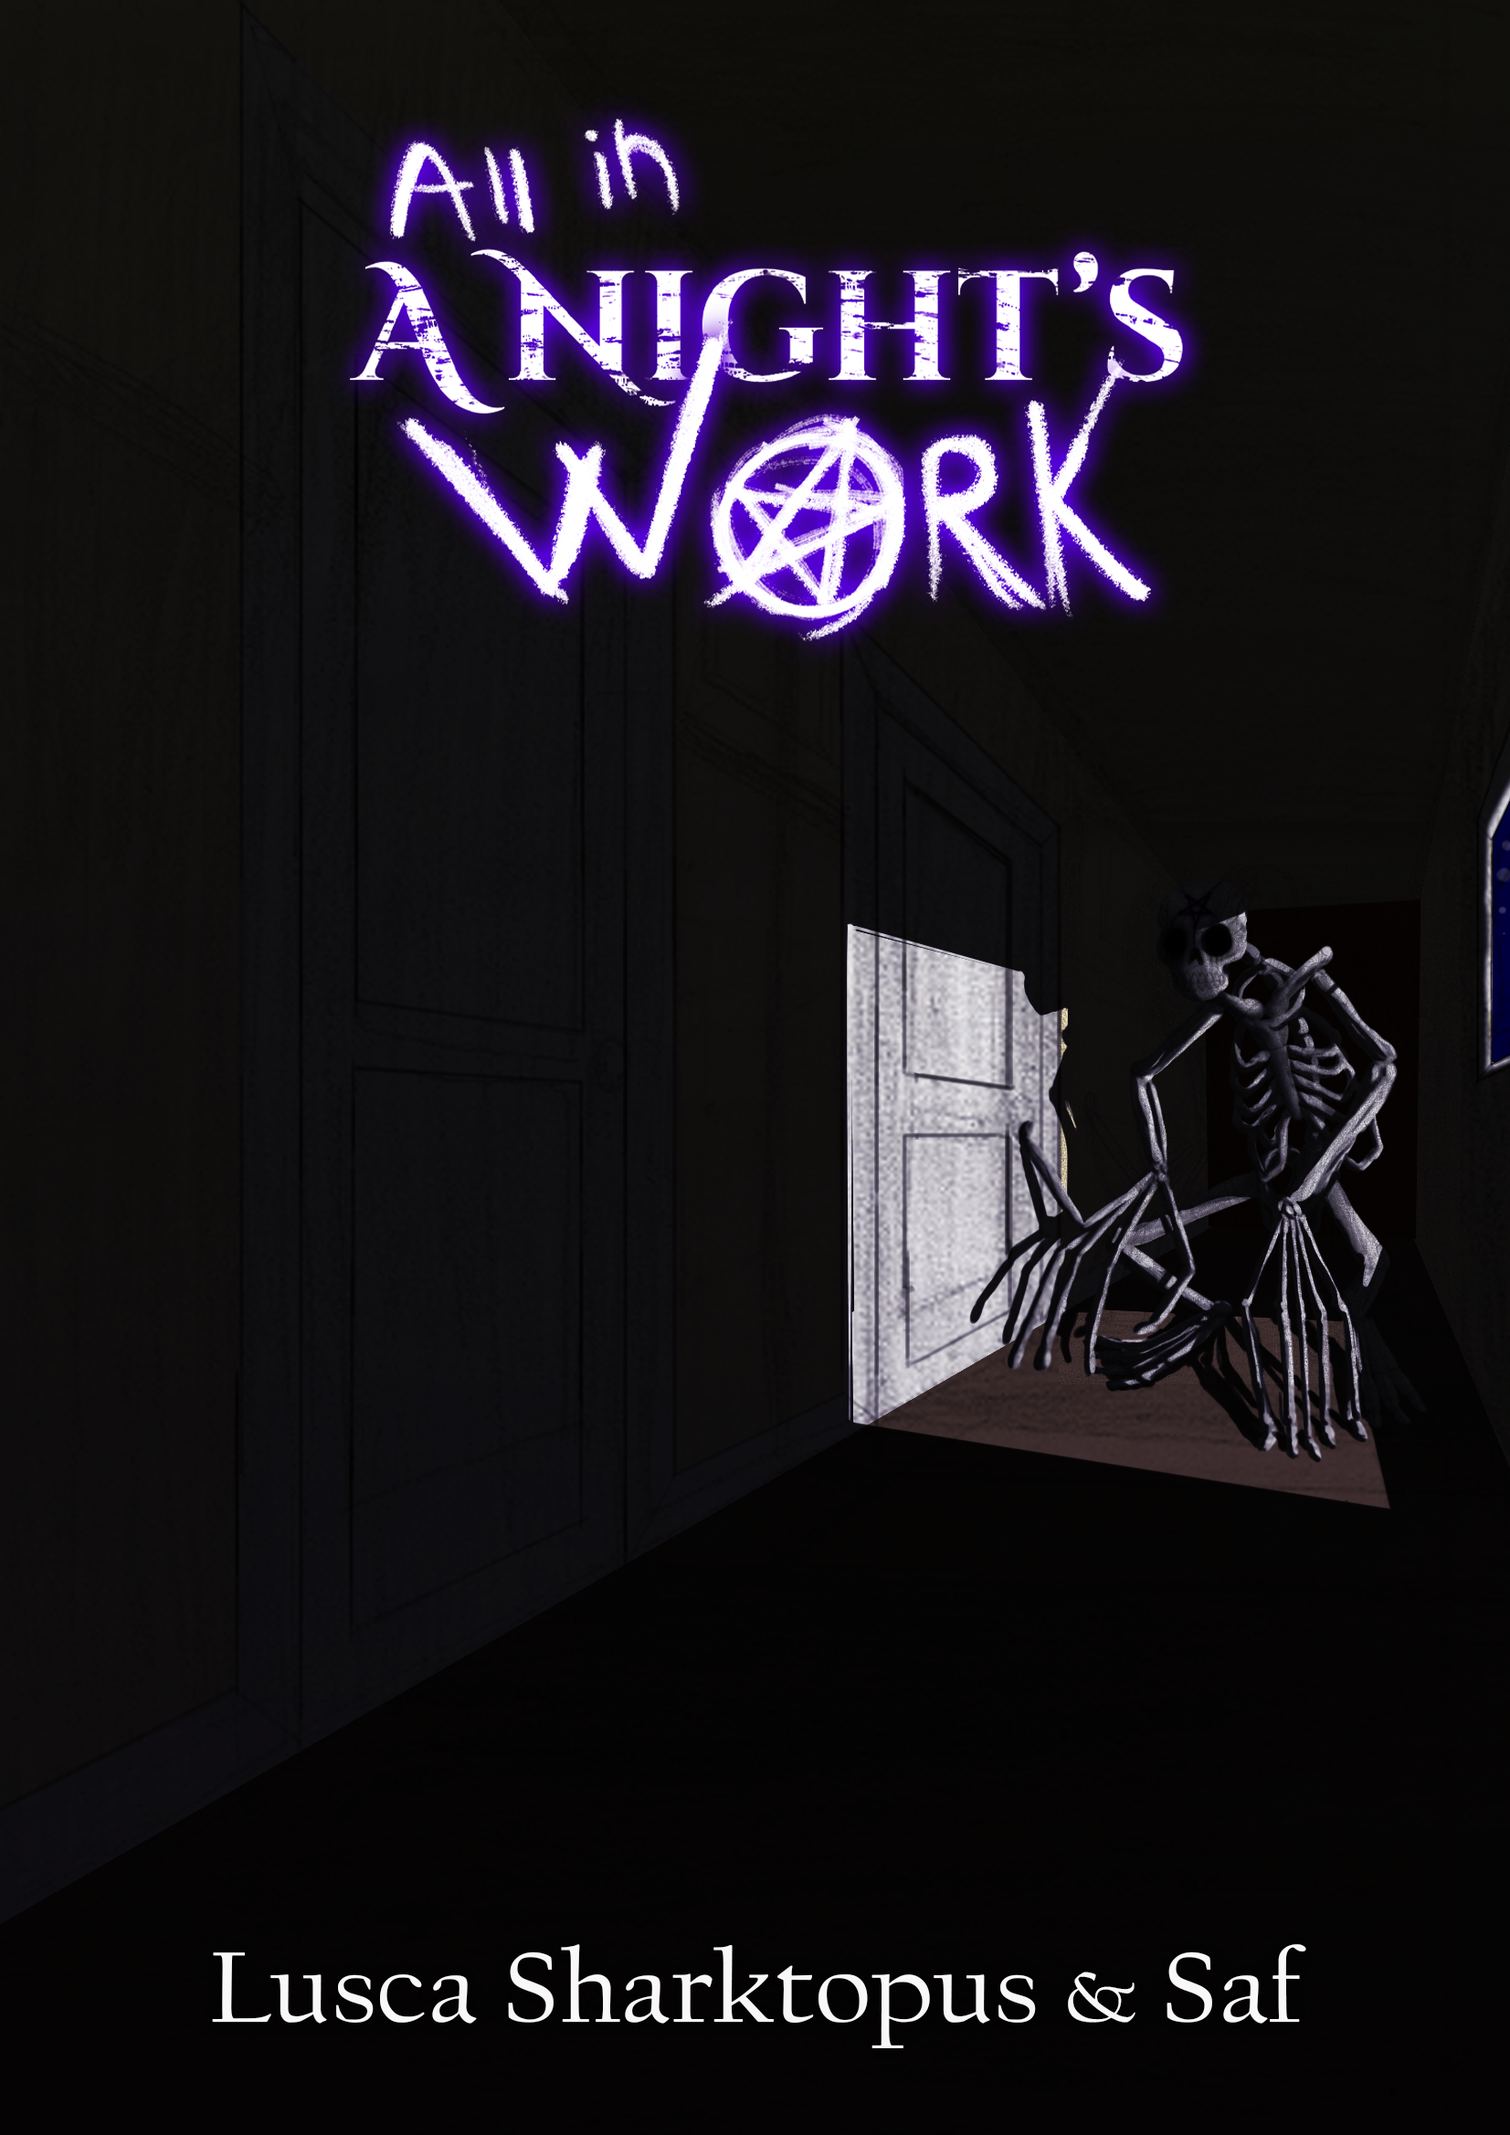
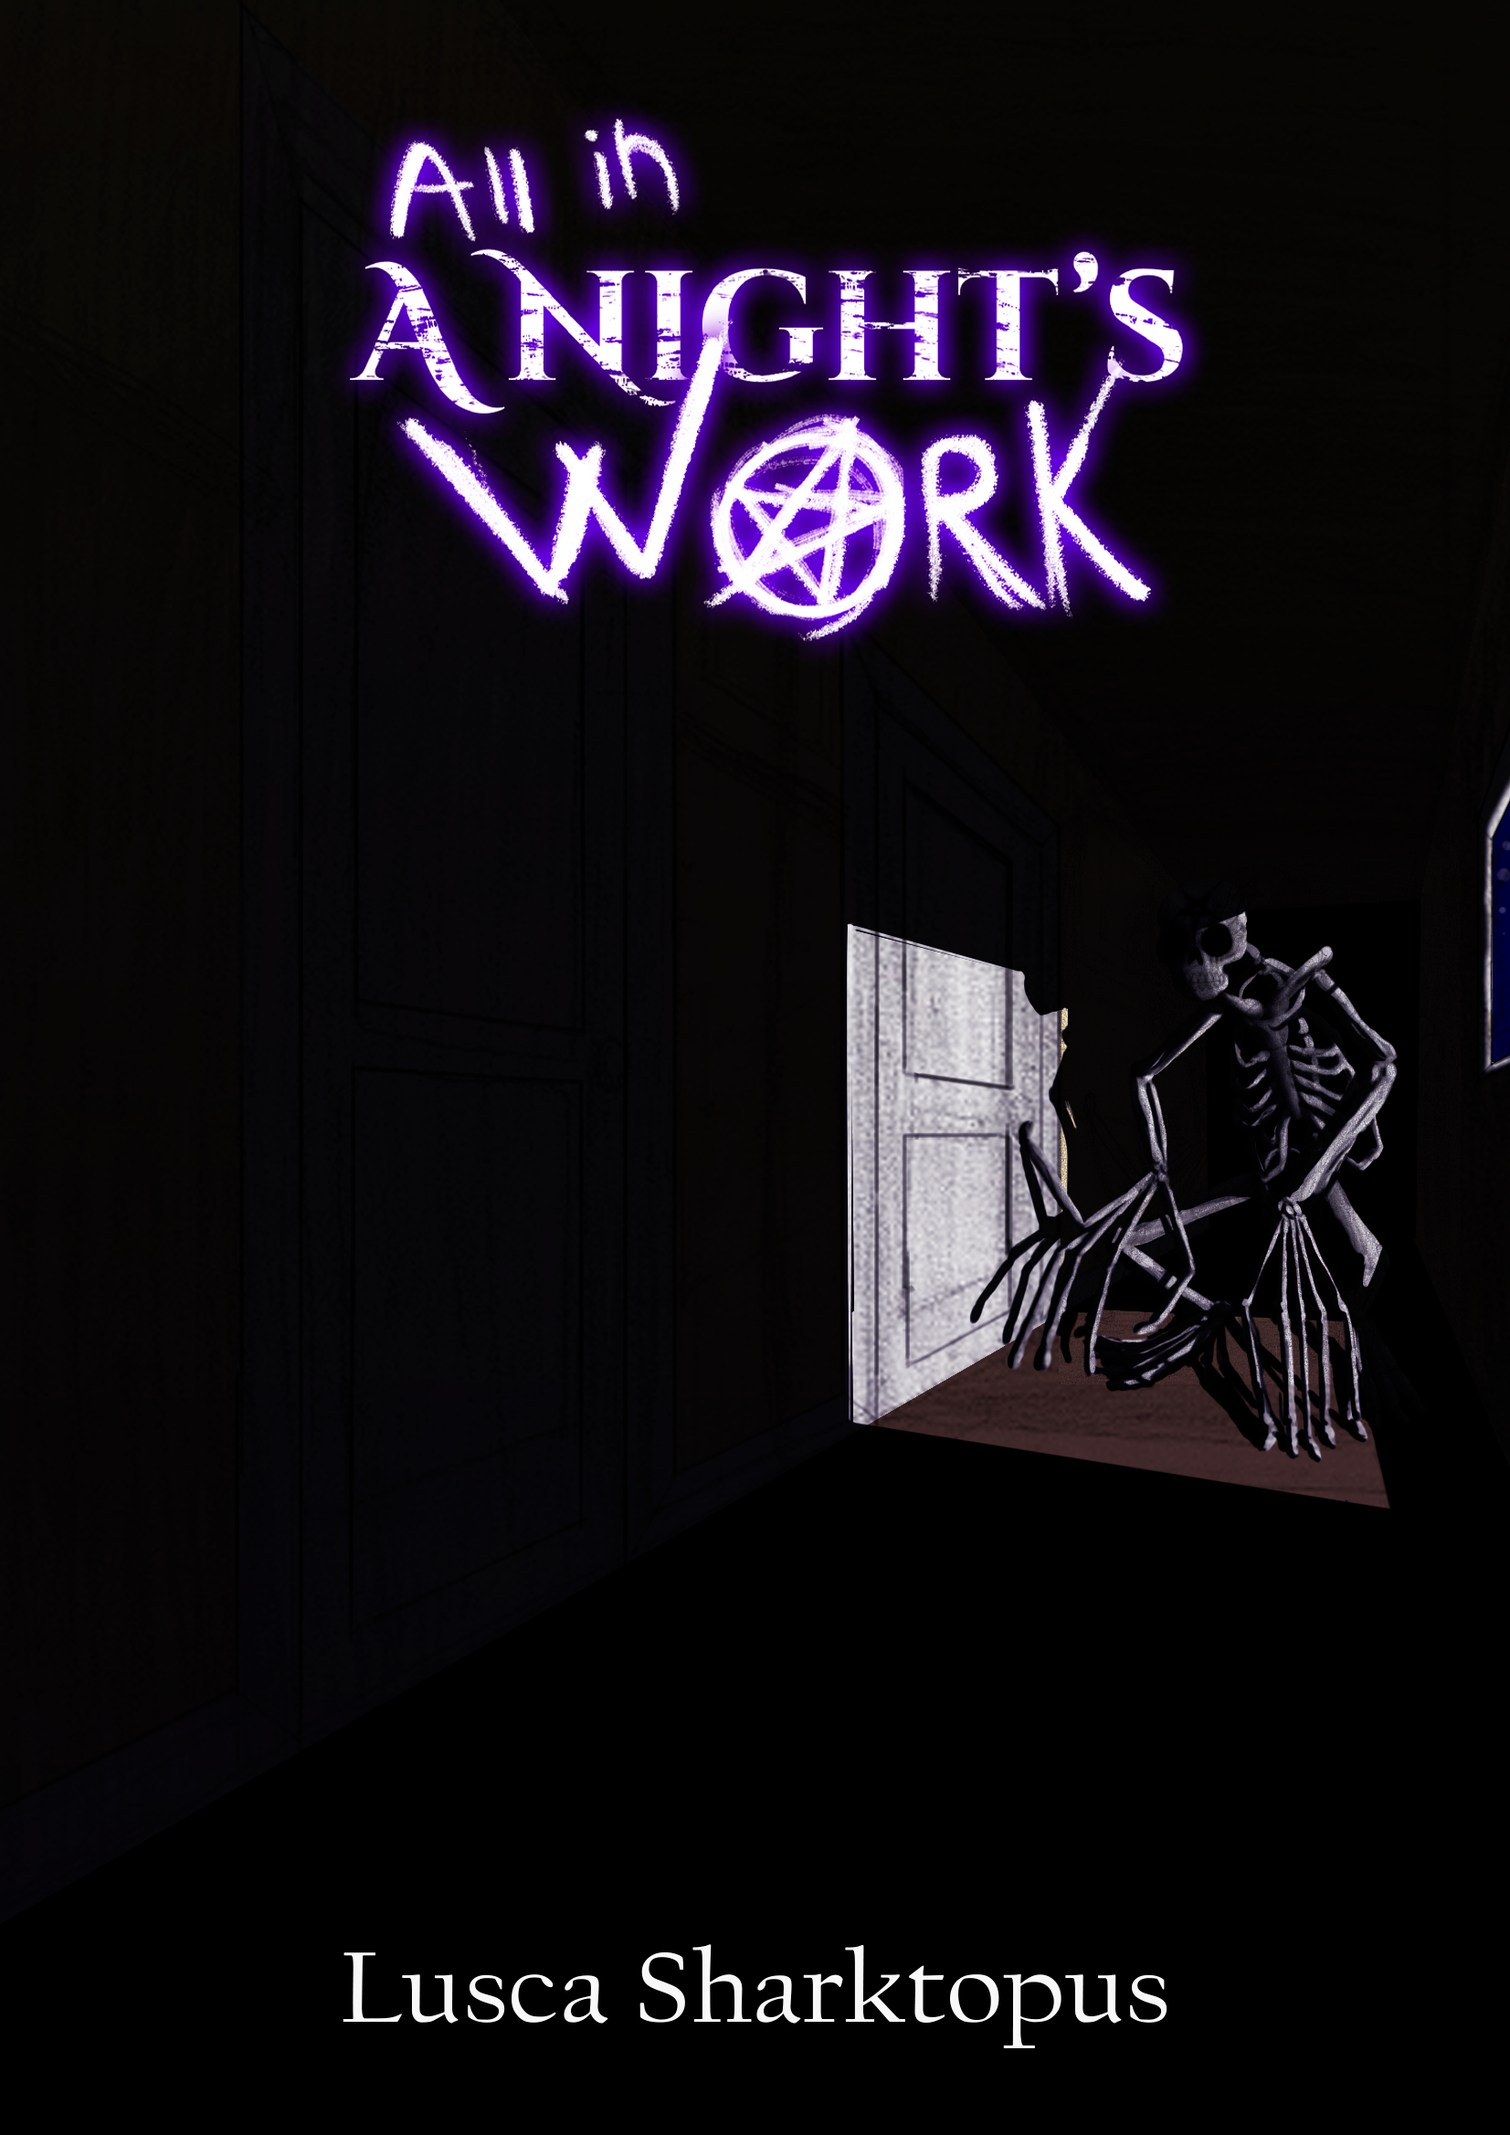
T17x: Ossos do Ofício volta a ser a 4ª no lançamento (Beira de Estrada, 5ª) e capas de Ossos sem "& Saf"
- order.release: Ossos 5 → 4, Beira de Estrada 4 → 5 (desfaz o item 4 da T17o; as duas são rascunho, o site publicado não muda)
- capas de Ossos (PT e EN) só com "Lusca Sharktopus", até a coautoria com o Saf ser confirmada; as com "& Saf" ficam em guardados/capas-ossos-com-saf/
- fotos de referência refeitas; testes ajustados à nova ordem
- docs/BACKLOG.md: linha T17x (inclui o que foi feito no site no ar, commit 690e839 na main)

Claude-Session: https://claude.ai/code/session_01CyzgedwNSXWfVwyTQknEPQ

Changed region(s): [[0.1851, 0.9055, 0.8639, 0.9679], [0.1234, 0.9055, 0.1543, 0.9367]]

diff --git a/tests/paginas.test.ts b/tests/paginas.test.ts
@@ -677,26 +677,26 @@ describe("T17c/T17l: o bloco de ordem no fim de TODO capítulo e de toda página
     expect(ped.chrono.next).toEqual({ href: "/pt/works/roadside/", texto: "Ler Beira de Estrada", externo: false });
     expect(ped.release.next?.texto).toBe("Assistir Luz & Sangue");
     // Beira de Estrada (quadrinho: "estou lendo"), nos capítulos e na página da obra: cronológica Pederneira ← → (O Pêndulo e Cat-Crow-Thing,
-    // sem arte, pulados) ninguém; lançamento (4, desde a T17o: o autor vai lançar a Beira antes de Ossos): Luz & Sangue (3) ← → Ossos do
-    // Ofício (5; desde a T17n tem capítulo em português, e é para ele que leva)
+    // sem arte, pulados) ninguém; lançamento (5, desde 30/10 — T17x: Ossos do Ofício volta a ser a 4ª, no lugar da Beira): Ossos do Ofício (4;
+    // desde a T17n tem capítulo em português, e é para ele que leva) ← → ninguém
     for (const url of ["/pt/works/roadside/01/", "/pt/works/roadside/02/", "/pt/works/roadside/"]) {
       const bloco = blocoDe(dir, url);
       expect(bloco, url).toContain("estou lendo em ordem");
       const l = lados(bloco);
       expect(l.chrono.prev, url).toEqual({ href: "/pt/works/firestriker/01/", texto: "Ler Pederneira", externo: false });
       expect(l.chrono.next, url).toBeNull();
-      expect(l.release.prev, url).toEqual({ href: "/pt/works/light-and-blood/", texto: "Assistir Luz & Sangue", externo: false });
-      expect(l.release.next, url).toEqual({ href: "/pt/works/all-in-a-nights-work/01/", texto: "Ler Ossos do Ofício", externo: false });
-      expect(bloco, url).toContain('<a class="so-side next" href="/pt/works/all-in-a-nights-work/01/">');
+      expect(l.release.prev, url).toEqual({ href: "/pt/works/all-in-a-nights-work/01/", texto: "Ler Ossos do Ofício", externo: false });
+      expect(l.release.next, url).toBeNull();
+      expect(bloco, url).toContain('<a class="so-side prev" href="/pt/works/all-in-a-nights-work/01/">');
       expect(bloco, url).not.toContain("hreflang");
     }
-    expect(lados(blocoDe(dir, "/en/works/roadside/01/")).release.next).toEqual({ href: "/en/works/all-in-a-nights-work/01/", texto: "Read All in a Night&#39;s Work", externo: false });
+    expect(lados(blocoDe(dir, "/en/works/roadside/01/")).release.prev).toEqual({ href: "/en/works/all-in-a-nights-work/01/", texto: "Read All in a Night&#39;s Work", externo: false });
     expect(blocoDe(dir, "/en/works/roadside/01/")).not.toContain("hreflang");
-    // T17o: lançamento na prévia = Alô? 1 · Pederneira 2 · Luz & Sangue 3 · Beira de Estrada 4 · Ossos do Ofício 5 (O Pêndulo 6 e Cat-Crow-Thing 7, sem arte, pulados)
-    expect(lados(blocoDe(dir, "/pt/works/light-and-blood/01/")).release.next?.href).toBe("/pt/works/roadside/");
+    // T17x: lançamento na prévia = Alô? 1 · Pederneira 2 · Luz & Sangue 3 · Ossos do Ofício 4 · Beira de Estrada 5 (O Pêndulo 6 e Cat-Crow-Thing 7, sem arte, pulados)
+    expect(lados(blocoDe(dir, "/pt/works/light-and-blood/01/")).release.next?.href).toBe("/pt/works/all-in-a-nights-work/01/");
     const ossosNoLancamento = lados(blocoDe(dir, "/pt/works/all-in-a-nights-work/01/")).release;
-    expect(ossosNoLancamento.prev?.href).toBe("/pt/works/roadside/");
-    expect(ossosNoLancamento.next).toBeNull();
+    expect(ossosNoLancamento.prev?.href).toBe("/pt/works/light-and-blood/");
+    expect(ossosNoLancamento.next?.href).toBe("/pt/works/roadside/");
     // O Pêndulo (vídeo: "estou assistindo") e Cat-Crow-Thing (jogo: "estou jogando") ainda TÊM o bloco; antes deles, a Beira de Estrada na
     // cronológica e (T17o) Ossos do Ofício no lançamento
     const pen = blocoDe(dir, "/pt/works/the-pendulum/01/");
@@ -706,7 +706,7 @@ describe("T17c/T17l: o bloco de ordem no fim de TODO capítulo e de toda página
       expect(cct).toContain(lang === "pt" ? "estou jogando em ordem" : "I’m playing in");
       for (const bloco of [cct, blocoDe(dir, `/${lang}/works/the-pendulum/01/`)]) {
         for (const o of ["chrono", "release"] as const) {
-          expect(lados(bloco)[o].prev?.href).toBe(o === "chrono" ? `/${lang}/works/roadside/` : `/${lang}/works/all-in-a-nights-work/01/`);
+          expect(lados(bloco)[o].prev?.href).toBe(`/${lang}/works/roadside/`);   // T17x: a Beira é a última também no lançamento
           expect(lados(bloco)[o].next).toBeNull();
         }
       }

diff --git a/tests/ordem.test.ts b/tests/ordem.test.ts
@@ -470,14 +470,14 @@ describe("T17l: quem não tem arte para a caixa é pulado; obra só com capítul
   test("conteúdo de verdade (prévia): Ossos do Ofício nas páginas em português leva ao capítulo em PORTUGUÊS (T17n; até a T17m, ao inglês)", () => {
     const r = ler(Object.fromEntries(realContent()), true);
     const pt = r.dados.pt;
-    // Luz & Sangue: na cronológica Ossos do Ofício (4) vem antes; no lançamento (T17o: Beira de Estrada 4, Ossos 5), vem depois da Beira de Estrada
+    // Luz & Sangue: na cronológica Ossos do Ofício (4) vem antes; no lançamento (T17x, 30/10: Ossos 4, Beira de Estrada 5), Ossos vem logo depois dela
     const obra = pt.obras.find((o) => o.data._origem.slug === "light-and-blood")!;
     const beira = pt.obras.find((o) => o.data._origem.slug === "roadside")!;
     const outros = (o: (typeof pt.obras)[number]) => [{ lang: "en" as const, capitulos: r.dados.en.capitulosDe(r.dados.en.obras.find((x) => x.data._origem.slug === o.data._origem.slug)!) }];
-    expect(blocoDaOrdem(obra, "pt", pt.universo, pt.capitulosDe, true, outros).listas.release.proximo?.slug).toBe("roadside");
+    expect(blocoDaOrdem(obra, "pt", pt.universo, pt.capitulosDe, true, outros).listas.release.proximo?.slug).toBe("all-in-a-nights-work");
     // com ou sem a informação dos outros idiomas, o mesmo destino: o capítulo em português, sem hreflang (a regra do "outro idioma" não vale mais para Ossos)
     for (const [b, c] of [obra, beira].flatMap((o) => [blocoDaOrdem(o, "pt", pt.universo, pt.capitulosDe, true, outros), blocoDaOrdem(o, "pt", pt.universo, pt.capitulosDe, true)].map((x) => [x, o] as const))) {
-      for (const ossos of c === obra ? [b.listas.chrono.anterior] : [b.listas.release.proximo]) {
+      for (const ossos of c === obra ? [b.listas.chrono.anterior] : [b.listas.release.anterior]) {
         expect(ossos?.slug).toBe("all-in-a-nights-work");
         expect(ossos?.rotulo).toBe("Ler Ossos do Ofício");
         expect(ossos?.destino).toEqual({ tipo: "link", href: "/pt/works/all-in-a-nights-work/01/", externo: false, idioma: null });

diff --git a/docs/BACKLOG.md b/docs/BACKLOG.md
@@ -53,6 +53,7 @@ Uma **thread por tarefa, em sequência**: a próxima só começa depois que a at
 | T17u | Pedidos do autor (28/10, 22:06–22:22): (1) **carta de Ossos com texto real** ("gostaria que a carta tivesse texto real no lugar do texto em imagem"), fonte "Cristina" = **Pristina** (typo do autor), "Deixe esta fonte por agora, ela é um placeholder"; "o ponto é acidental" ("called. Sarah" → "called Sarah"); (2) "em todas as páginas de história [...] a mesma linha horizontal presente em Pederneira e Ossos do Ofício abaixo da logo"; (3) "retire as datas de debaixo dos nomes dos capítulos em páginas de capítulos"; (4) "Turn Close Captions on!" sob o título, só em inglês, em Luz & Sangue e O Pêndulo | 2 | Opus | médio | T17t | baixo | feita (28–29/10/2026; sem subagente; só no Astro, exceto o texto da carta, que é conteúdo e vale nos dois) — ver o tópico no CLAUDE.md; provas `tests/cabecalho.test.ts`, `leitor.test.ts`, `paginas.test.ts`, paridade com 0 diferenças; carta comparada lado a lado com a imagem antiga. **Pendências:** licença para web da Pristina (ou outra fonte) **antes de publicar Ossos** — hoje a fonte só vai para a prévia; "Close Captions" (o comum é "Closed Captions"): texto do autor, mantido, apontado a ele. **Ajuste do autor (28/10, 22:40):** "prefiriria que a linha horizontal ficasse acima de nomes de capítulos e outros textos, realmente logo abaixo da logo" → a linha passou para logo abaixo da logo, antes do título, em todo capítulo (inclusive texto); `cabecalhoDoCapituloComoNoPython()` a devolve para depois do título no texto, como no Python. |
 | T17v | Pedido do autor (29/10): "exclua o post do blog sobre a arte de natal dos di vario"; "no lugar, crie uma nova e guarde ela como rascunho até o natal deste ano", com o vídeo novo em formato longo (https://youtu.be/Zgog1aIPsds), "o mesmo texto" e "a arte final centralizada logo abaixo" ("Di Vario Christmas.png", logo "Residence") | 1 | Opus | baixo | T17u | baixo | feita (29/10/2026; sem subagente) — saiu `content/news/2025-12-25-feliz-natal-di-vario/` (o endereço antigo deixa de existir e a conversa `news/2025-12-25-feliz-natal-di-vario` some da página; o site passa de 197 para 195 HTML; a baseline foi refeita); entrou `content/news/2026-12-25-feliz-natal-di-vario/` com `draft: true` (mesmo título, mesmas etiquetas, mesmo texto, mesma miniatura `news/feliz-natal-di-vario.png`), o vídeo novo e a arte em `static/news/Di Vario Christmas.png` (`<figure class="wide">`); o post do Instagram do fim do post antigo NÃO entrou (pergunta ao autor); a logo de Natal "Hello Di Vario Residency 5.png" (diz "Residence") guardada em `static/logos/EN/`. **No dia 25/12/2026: apagar `draft: true` nos dois arquivos.** "2026 seja um grande ano" → "2027" (e "I hope 2026" → "2027"), a pedido do autor (29/10). |
 | T17w | PDF "Ossos do Ofício" de 29/10 ("mais um tiquinho de progresso feito"), aplicado ao capítulo 01 (en.md e pt.md, mesmo texto) | 1 | Opus | médio | T17v | baixo | feita (29/10/2026; sem subagente; skill hc-fidelidade-pdf) — texto revisto do trem (presente em vez de passado na parte do sonho; "finance guy", "sorry…" em 7 pt, a conversa dos animais catemerais no lugar da linha de traços), "Ałe de l’Órdene", os três marcadores do autor entre colchetes com os divisores, "Then and there…" (13 pt) + "…Lying on the floor…", e depois do quadrinho a luta com o Ruinalgam (Pai-Nosso em latim em versalete: ꜱ e ꜰ no lugar dos quadradinhos do PDF) e o começo da cena do orfanato. Mantidas as correções já aprovadas em 15/10 (It’s, "need some rest", I’m/I, "a cross-shaped", "train station"), que o PDF voltou a trazer como antes. Corrigido pelo autor no PDF seguinte (29/10, "corrigido!"): o trecho repetido saiu, "cathemeral", "A precise", "demon’s". Continua como ele escreveu: "didn’t quite knew". |
+| T17x | Pedidos do autor (30/10, 18:47–18:53), **a maior parte no site que está no ar** (`main`, o HTML solto), não no Astro: (1) degradê de Pederneira/Firestriker (texto final que some letra a letra, igual ao do `content/`); (2) cartão **Ossos do Ofício / All in a Night's Work "Em breve"** na home PT e EN, em 4º lugar; (3) versalete real (`<span class="hc">`: o texto copiado sai com letras normais); (4) visual do site novo (fundo em degradê com runas, cabeçalho, folha de papel, cartões, rodapé), com o **cabeçalho funcionando como antes** (Sobre/Histórias/Contato pela mesma página; idioma como link simples); (5) episódio 2 de Luz & Sangue e página de lista de episódios; (6) **sem a caixa de cronologia**. E, no projeto do Astro: **Ossos do Ofício volta a ser a 4ª na ordem de lançamento e Beira de Estrada a 5ª** (desfaz o item (4) da T17o) e as **capas de Ossos sem "& Saf"** (`guardados/capas-ossos-com-saf/` guarda as outras, até a coautoria com o Saf ser confirmada) | 2 | Opus | médio | T17w | médio | feita (30/10/2026) — **site no ar:** commit direto na `main` (`690e839`, pedido explícito do autor; a regra "nada na `main` até a T20" continua valendo para o Astro). Arquivos novos na raiz: `fonts.css` + `fonts/` (as mesmas fontes do site novo, hospedadas; nada vai ao Google), `social/`, `Backgrounds/paper-texture.avif`, `logos/*/Luz e Sangue 6`/`Light & Blood 6` (a logo EN é a mesma imagem da PT, como no site novo), `luz-1/2.html` e `light-1/2.html` (episódios) e `luz.html`/`light.html` (agora a lista de episódios, mesma URL de antes). Nomes de arquivo e URLs de antes, comentários do Disqus e redirects intactos. Os arquivos foram gerados por um script de uso único (fora do repositório) a partir do site novo; o autor segue editando o HTML à mão. Mudanças pequenas junto: link do e-mail do Contato (`mailto:` estava sem endereço) e `</br>` soltos do "Sobre" viraram parágrafos. **Astro:** `order.release` Ossos 5 → 4 e Beira 4 → 5 (publicado igual: as duas são rascunho; na prévia: Alô? 1 · Pederneira 2 · Luz & Sangue 3 · Ossos 4 · Beira 5 · O Pêndulo 6 · Cat-Crow-Thing 7), fotos de referência refeitas. |
 | T18 | Paridade com a baseline + correções | 6 | Opus | alto | T15, T17, T17c, T17f | **alto** | feita (20/10/2026) — [relatório](paridade-T18.md): zero diferenças não explicadas; aguarda a revisão T19 |
 | T19 | Revisão independente da migração | 6 | Opus | muito alto | T18 | **alto** | feita (21/10/2026) — [revisão](revisao-T19.md): **pode virar**, nenhum impedimento; condições C1–C7 para sábado e ressalvas R1–R12 |
 | T19b | Acabamento do autor no site novo (elementos gráficos, detalhes, notícias novas) | 6 | Sonnet (quando precisar) | médio | T19 | baixo | em andamento: os pedidos do PDF de 20/10 (T17b–T17e) são este acabamento |

diff --git a/guardados/capas-ossos-com-saf/LEIA-ME.md b/guardados/capas-ossos-com-saf/LEIA-ME.md
@@ -1,0 +1,8 @@
+# Capas de Ossos do Ofício com "& Saf"
+
+As duas capas desta pasta (PT e EN) são as versões com o crédito "Lusca Sharktopus & Saf".
+Em 30/10/2026 o autor pediu para o site usar, por enquanto, as capas só com "Lusca Sharktopus"
+(as mesmas do site no ar), até confirmar a coautoria do conto com o Saf.
+
+Quando a coautoria for confirmada: copie estes arquivos de volta para `static/covers/PT/` e `static/covers/EN/`
+(mesmos nomes) e avise o autor para atualizar também o site no ar, se ele ainda estiver separado.
